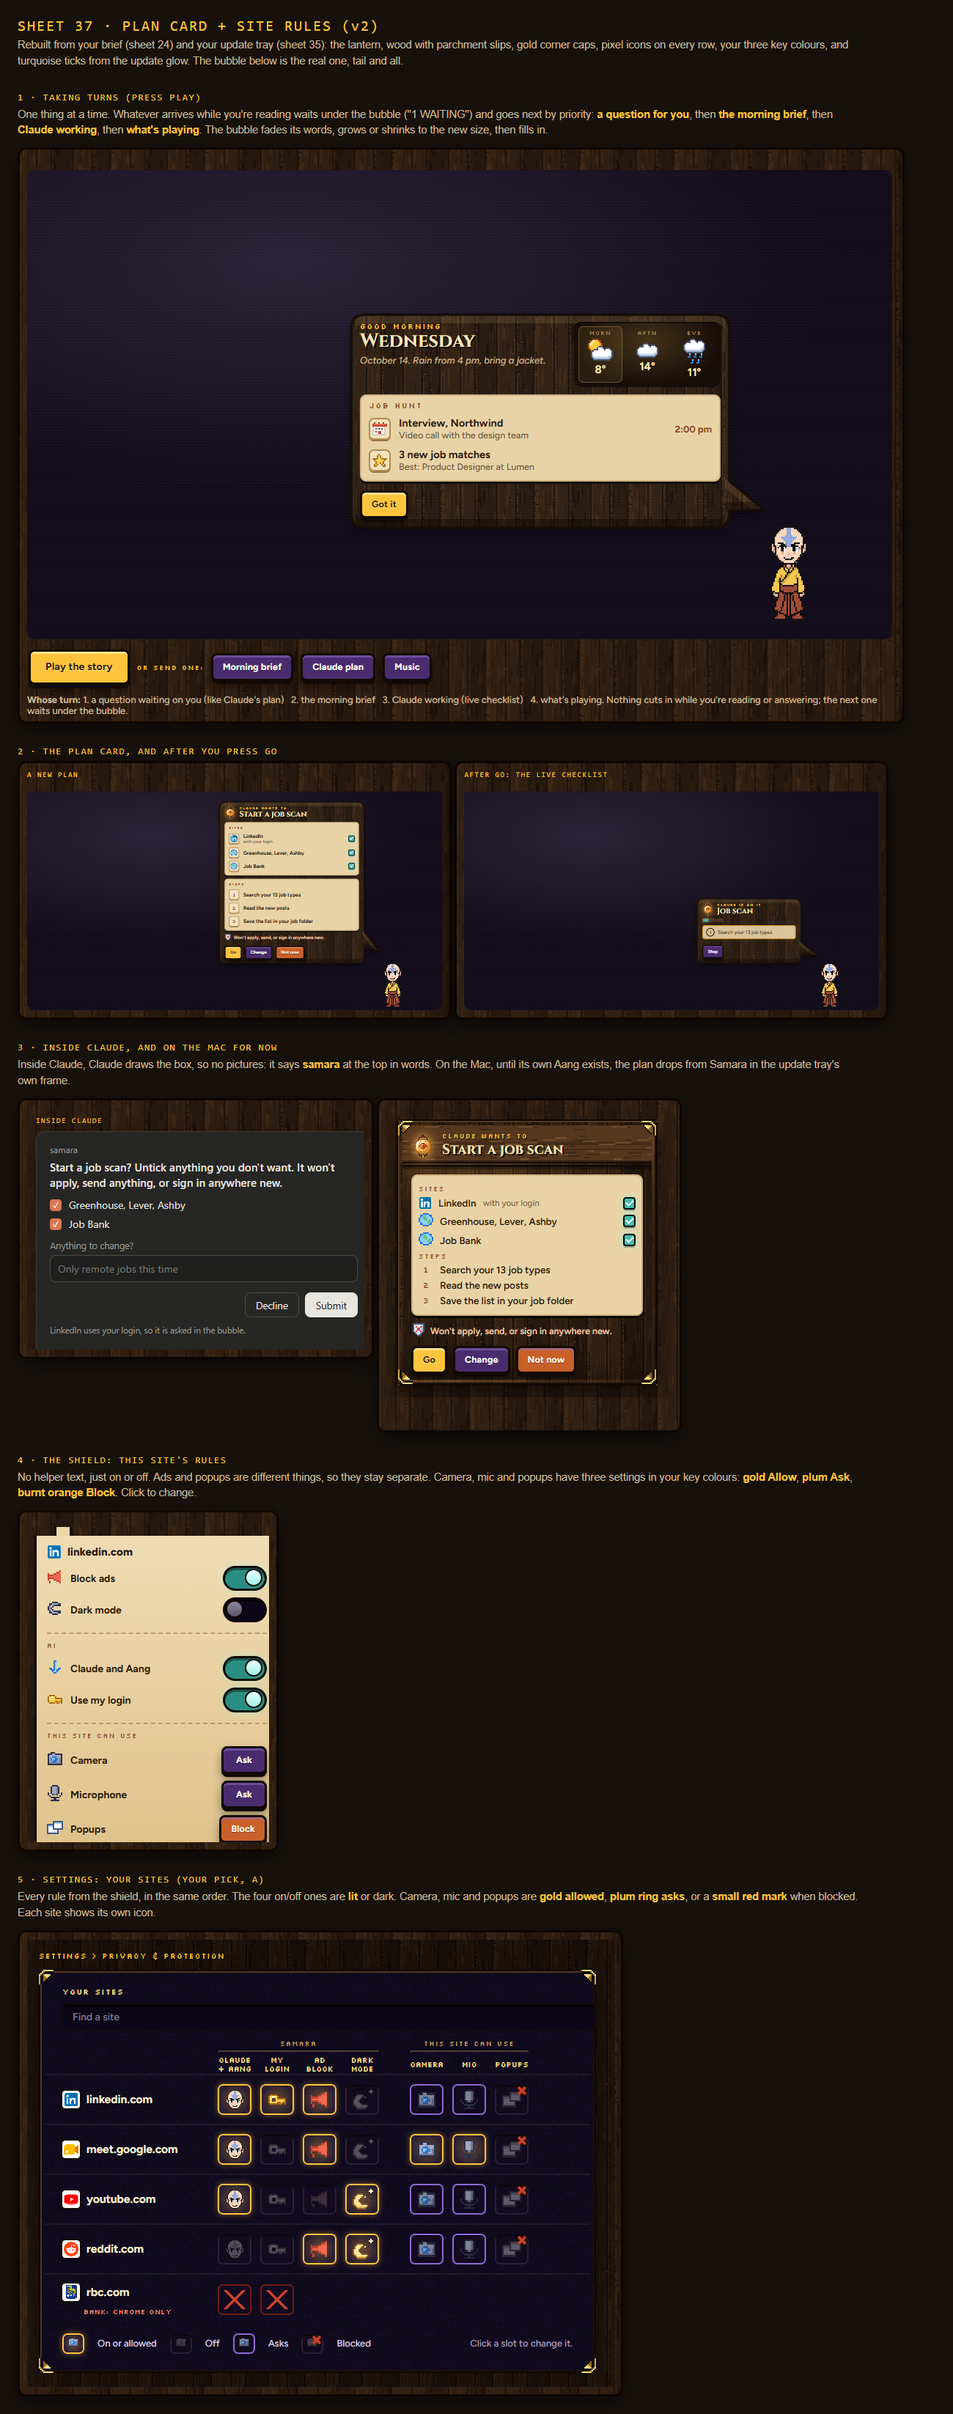
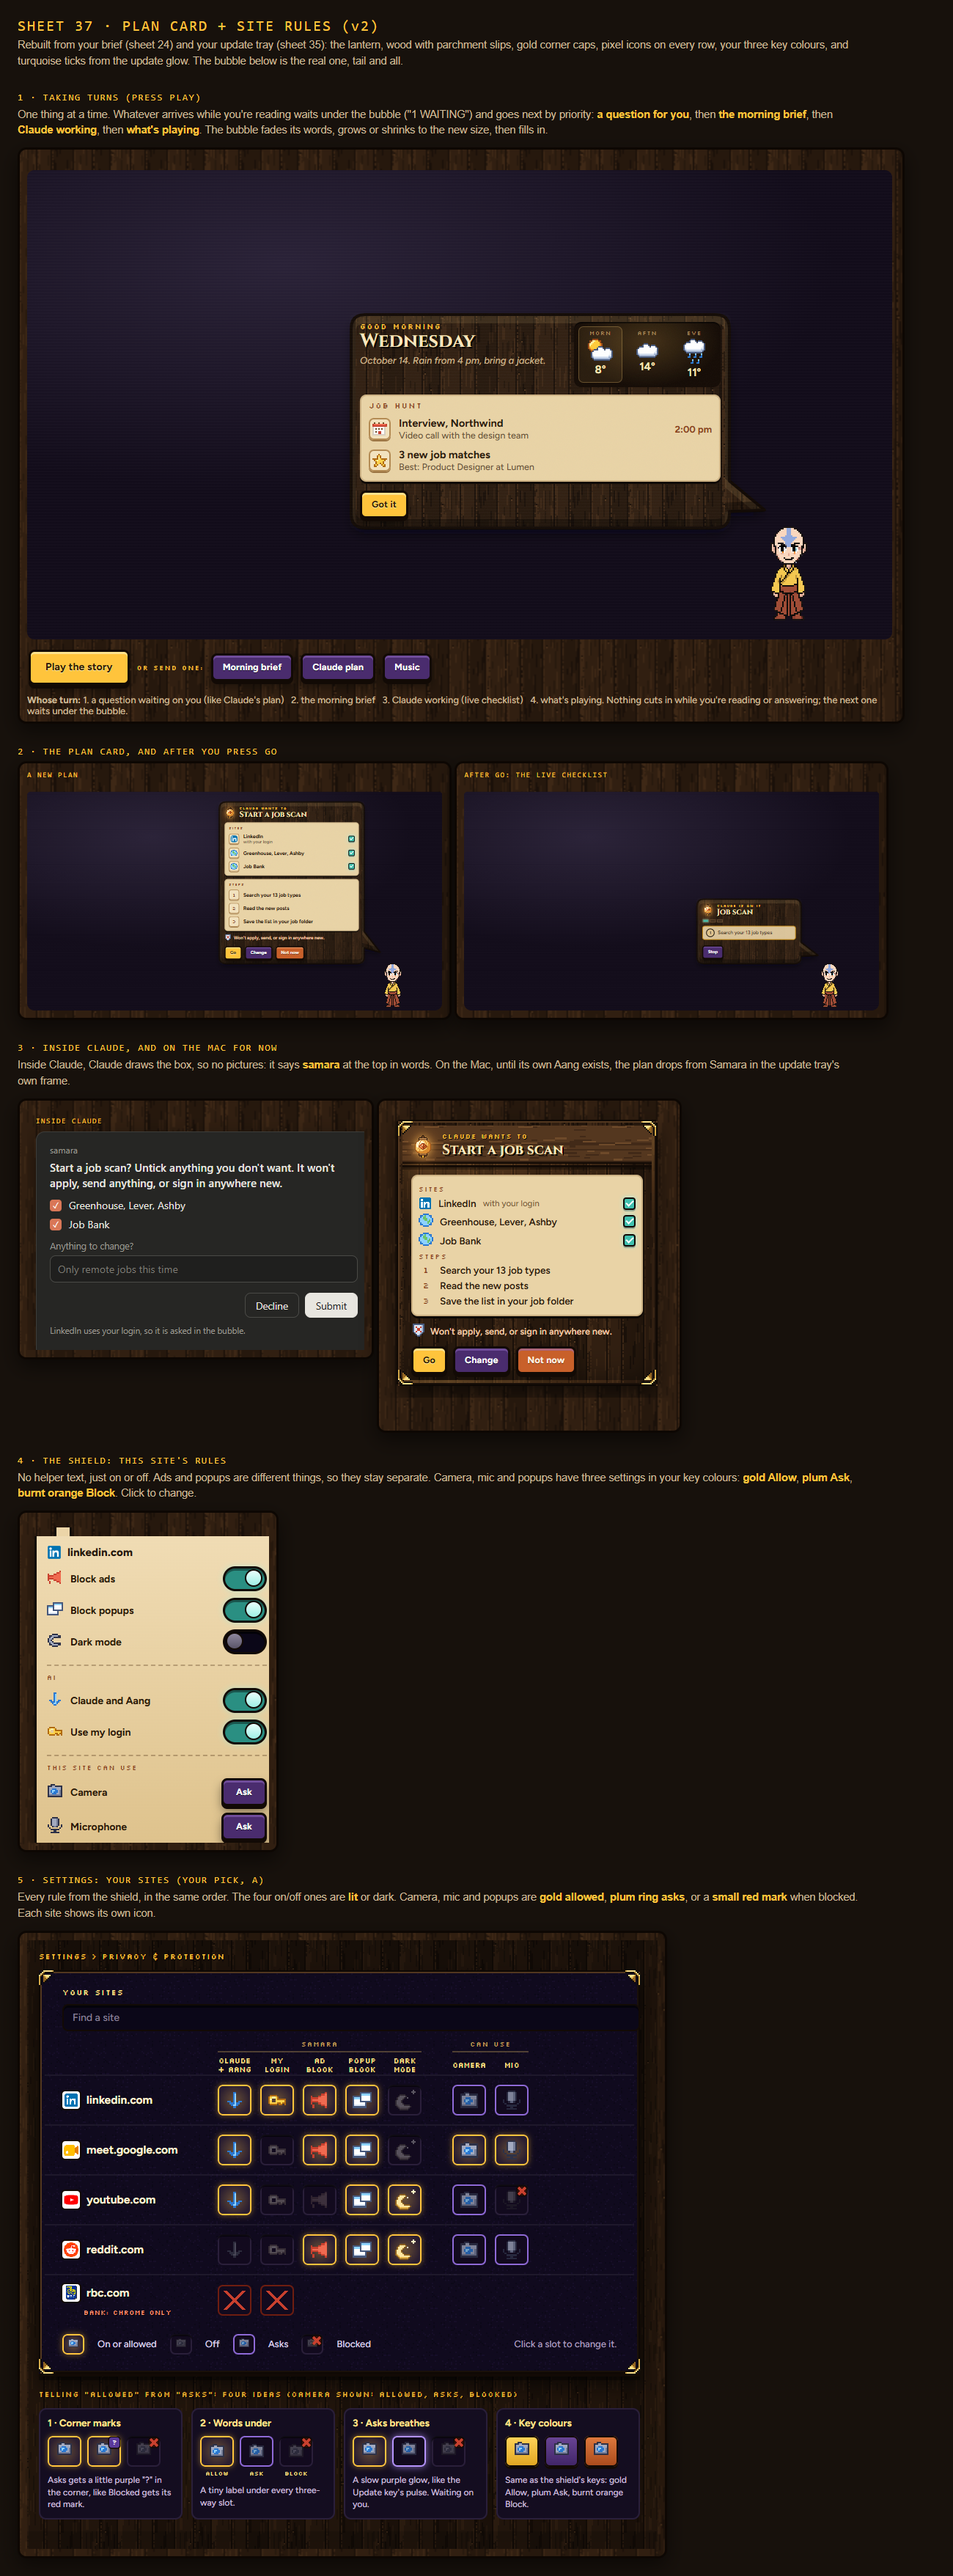
Turquoise tick boxes in the update tray; sheet 37: Aang's arrow, popup blocker on/off, four ideas for allowed vs asks

Changed region(s): [[0.0, 0.1239, 0.9538, 0.9912], [0.0, 0.0, 0.8923, 0.0929]]

diff --git a/docs/cockpit/sheet-37/sites.html b/docs/cockpit/sheet-37/sites.html
@@ -11,14 +11,14 @@
 <link rel="stylesheet" href="../../../src/Shell/pages/settings.css">
 <style>
   html,body{margin:0;overflow:hidden!important;height:auto!important}
-  body{padding:16px 16px 0;width:760px}
+  body{padding:16px 16px 16px;width:820px}
   .cap{font:400 10px Silkscreen,monospace;color:#FFC43C;letter-spacing:1.5px;margin:0 0 12px;text-shadow:1px 1px 0 #000}
   .card{margin:0}
   .find{margin:6px 24px 12px;padding:8px 12px;border-radius:8px;background:#0B0718;border:2.5px solid #120A05;font:500 14px var(--body);color:#8a8099;box-shadow:inset 0 3px 0 rgba(0,0,0,.6)}
-  .grid{--cols:200px 46px 46px 46px 46px 18px 46px 46px 46px;display:grid;grid-template-columns:var(--cols);column-gap:12px;align-items:center}
+  .grid{--cols:200px 46px 46px 46px 46px 46px 18px 46px 46px;display:grid;grid-template-columns:var(--cols);column-gap:12px;align-items:center}
   .groups,.legend,.site{padding-left:24px;padding-right:24px}
   .groups span{font:400 9px var(--label);letter-spacing:1.5px;color:#c9a35a;text-align:center;border-bottom:2px solid rgba(201,163,90,.35);padding-bottom:4px}
-  .groups .ai{grid-column:2 / span 4}.groups .use{grid-column:7 / span 3}
+  .groups .ai{grid-column:2 / span 5}.groups .use{grid-column:8 / span 2}
   .legend{margin-top:6px}
   .legend span{font:400 9.5px var(--label);letter-spacing:.5px;color:#ffe28c;text-align:center;line-height:1.25}
   .site{padding-top:12px;padding-bottom:12px;border-top:2px solid rgba(255,255,255,.06)}
@@ -41,6 +41,21 @@
   .slot.block::before{content:"";position:absolute;right:3px;top:3px;width:12px;height:12px;border-radius:3px;background:#3a0f0a;box-shadow:0 0 0 1.5px #120A05}
   .slot.never{cursor:default;box-shadow:inset 0 0 0 2px #6e1d10}
   .slot.never::after{content:"";position:absolute;inset:8px;background:linear-gradient(45deg,transparent 45%,#C8402E 45% 55%,transparent 55%),linear-gradient(-45deg,transparent 45%,#C8402E 45% 55%,transparent 55%)}
+  .ideas{display:grid;grid-template-columns:repeat(4,1fr);gap:12px}
+  .idea{padding:12px;border-radius:10px;background:#140d20;box-shadow:inset 0 0 0 2px #2a1f3a}
+  .idea b{display:block;font:700 13.5px var(--body);color:#ffe28c;margin:0 0 10px}
+  .idea small{display:block;font:500 12px/1.4 var(--body);color:#c9bfdc;margin-top:10px}
+  .trio{display:flex;gap:8px;align-items:flex-start}
+  .trio .w{display:flex;flex-direction:column;align-items:center;gap:4px}
+  .trio .w i{font:400 8px var(--label);letter-spacing:.5px;color:#ffe28c;font-style:normal}
+  .slot.m-ask::after{content:"?";position:absolute;right:2px;top:2px;width:14px;height:14px;border-radius:3px;background:#5a3a9a;box-shadow:0 0 0 1.5px #120A05;
+    font:400 9px var(--label);color:#fff;display:grid;place-items:center;line-height:14px;text-align:center}
+  .slot.breathe{animation:breathe 2.2s ease-in-out infinite}
+  @keyframes breathe{0%,100%{box-shadow:inset 0 0 0 2px #8f6ad8}50%{box-shadow:inset 0 0 0 2px #b897ff,0 0 12px rgba(184,151,255,.75)}}
+  .slot.k-gold{background:linear-gradient(180deg,#ffd45a,#e0a520);box-shadow:inset 0 0 0 2px #120A05,0 3px 0 #120A05}
+  .slot.k-plum{background:linear-gradient(180deg,#6a4596,#3f2566);box-shadow:inset 0 0 0 2px #120A05,0 3px 0 #120A05}
+  .slot.k-burnt{background:linear-gradient(180deg,#e07a3e,#a84a1c);box-shadow:inset 0 0 0 2px #120A05,0 3px 0 #120A05}
+  .slot[class*="k-"] .pix{opacity:1;filter:none}
   .key4{display:flex;gap:18px;padding:12px 24px 18px;font:500 13px var(--body);color:#d9cfe9;align-items:center;flex-wrap:wrap}
   .key4 .slot{width:30px;height:28px;cursor:default}
   .key4 .slot .pix{transform:scale(.7)}
@@ -52,8 +67,8 @@
   <div class="card"><i class="caps"></i>
     <h3>YOUR SITES</h3>
     <div class="find">Find a site</div>
-    <div class="grid groups"><span style="border:none"></span><span class="ai">SAMARA</span><span style="border:none"></span><span class="use">THIS SITE CAN USE</span></div>
-    <div class="grid legend"><span></span><span>CLAUDE<br>+ AANG</span><span>MY<br>LOGIN</span><span>AD<br>BLOCK</span><span>DARK<br>MODE</span><span></span><span>CAMERA</span><span>MIC</span><span>POPUPS</span></div>
+    <div class="grid groups"><span style="border:none"></span><span class="ai">SAMARA</span><span style="border:none"></span><span class="use">CAN USE</span></div>
+    <div class="grid legend"><span></span><span>CLAUDE<br>+ AANG</span><span>MY<br>LOGIN</span><span>AD<br>BLOCK</span><span>POPUP<br>BLOCK</span><span>DARK<br>MODE</span><span></span><span>CAMERA</span><span>MIC</span></div>
     <div id="rows"></div>
     <div class="key4">
       <span class="slot on"><i data-pix="camera"></i></span>On or allowed
@@ -63,18 +78,25 @@
       <em>Click a slot to change it.</em>
     </div>
   </div>
+  <p class="cap" style="margin-top:22px">TELLING "ALLOWED" FROM "ASKS": FOUR IDEAS (CAMERA SHOWN: ALLOWED, ASKS, BLOCKED)</p>
+  <div class="ideas">
+    <div class="idea"><b>1 &middot; Corner marks</b><div class="trio"><span class="slot on"><i data-pix="camera"></i></span><span class="slot on m-ask"><i data-pix="camera"></i></span><span class="slot block"><i data-pix="camera"></i></span></div><small>Asks gets a little purple "?" in the corner, like Blocked gets its red mark.</small></div>
+    <div class="idea"><b>2 &middot; Words under</b><div class="trio"><span class="w"><span class="slot on"><i data-pix="camera"></i></span><i>ALLOW</i></span><span class="w"><span class="slot ask"><i data-pix="camera"></i></span><i>ASK</i></span><span class="w"><span class="slot block"><i data-pix="camera"></i></span><i>BLOCK</i></span></div><small>A tiny label under every three-way slot.</small></div>
+    <div class="idea"><b>3 &middot; Asks breathes</b><div class="trio"><span class="slot on"><i data-pix="camera"></i></span><span class="slot ask breathe"><i data-pix="camera"></i></span><span class="slot block"><i data-pix="camera"></i></span></div><small>A slow purple glow, like the Update key's pulse. Waiting on you.</small></div>
+    <div class="idea"><b>4 &middot; Key colours</b><div class="trio"><span class="slot k-gold"><i data-pix="camera"></i></span><span class="slot k-plum"><i data-pix="camera"></i></span><span class="slot k-burnt"><i data-pix="camera"></i></span></div><small>Same as the shield's keys: gold Allow, plum Ask, burnt orange Block.</small></div>
+  </div>
 <script type="module">
 import { pix, basePix, paintIcons } from './icons.js';
 // Each site's own icon, the one Samara keeps when he visits (browser-favicons.json), as bookmarks show it.
 const FAV = { 'linkedin.com': 'www.linkedin.com', 'meet.google.com': 'meet.google.com', 'youtube.com': 'www.youtube.com', 'reddit.com': 'www.reddit.com', 'rbc.com': 'www.rbc.com' };
 // Same order and kinds as the shield: four on/off, then three that allow, ask or block.
-const COLS = [['face', 2], ['key', 2], ['ads', 2], ['moon', 2], null, ['camera', 3], ['mic', 3], ['popup', 3]];
+const COLS = [['ai', 2], ['key', 2], ['ads', 2], ['popup', 2], ['moon', 2], null, ['camera', 3], ['mic', 3]];
 const SITES = [
-  ['linkedin.com', ['on', 'on', 'on', 'off', null, 'ask', 'ask', 'block']],
-  ['meet.google.com', ['on', 'off', 'on', 'off', null, 'on', 'on', 'block']],
-  ['youtube.com', ['on', 'off', 'off', 'on', null, 'ask', 'ask', 'block']],
-  ['reddit.com', ['off', 'off', 'on', 'on', null, 'ask', 'ask', 'block']],
-  ['rbc.com', ['never', 'never', '', '', null, '', '', ''], 'BANK: CHROME ONLY'],
+  ['linkedin.com', ['on', 'on', 'on', 'on', 'off', null, 'ask', 'ask']],
+  ['meet.google.com', ['on', 'off', 'on', 'on', 'off', null, 'on', 'on']],
+  ['youtube.com', ['on', 'off', 'off', 'on', 'on', null, 'ask', 'block']],
+  ['reddit.com', ['off', 'off', 'on', 'on', 'on', null, 'ask', 'ask']],
+  ['rbc.com', ['never', 'never', '', '', '', null, '', ''], 'BANK: CHROME ONLY'],
 ];
 const icon = (k) => {
   if (k === 'face') { const i = document.createElement('img'); i.src = '../../../src/Shell/pages/art/aang-face.png'; i.alt = ''; return i; }
@@ -93,7 +115,7 @@ for (const [name, st, note] of SITES) {
     const s = st[i];
     if (!s) { r.append(sl); return; }
     sl.className = 'slot ' + (s === 'off' ? '' : s);
-    sl.title = ['Claude and Aang', 'Use my login', 'Ad blocker', 'Dark mode', '', 'Camera', 'Microphone', 'Popups'][i];
+    sl.title = ['Claude and Aang', 'Use my login', 'Ad blocker', 'Popup blocker', 'Dark mode', '', 'Camera', 'Microphone'][i];
     if (s !== 'never') sl.append(icon(c[0]));
     if (s !== 'never') sl.onclick = () => {
       const order = c[1] === 2 ? ['on', ''] : ['on', 'ask', 'block'];

diff --git a/docs/cockpit/sheet-37/shield.html b/docs/cockpit/sheet-37/shield.html
@@ -26,6 +26,7 @@
   <div class="bandchip site">
     <div class="q"><img src="favicons/www.linkedin.com.ico" width="20" height="20" alt="" style="border-radius:4px">linkedin.com</div>
     <div class="r"><span class="ic"><i data-pix="ads"></i></span><b>Block ads</b><button class="sw" type="button" role="switch" aria-checked="true"><i class="bed"><i class="nub"></i></i></button></div>
+    <div class="r"><span class="ic"><i data-pix="popup"></i></span><b>Block popups</b><button class="sw" type="button" role="switch" aria-checked="true"><i class="bed"><i class="nub"></i></i></button></div>
     <div class="r"><span class="ic"><i data-pix="dark"></i></span><b>Dark mode</b><button class="sw" type="button" role="switch" aria-checked="false"><i class="bed"><i class="nub"></i></i></button></div>
     <div class="sec">AI</div>
     <div class="r"><span class="ic"><i data-pix="ai"></i></span><b>Claude and Aang</b><button class="sw" type="button" role="switch" aria-checked="true"><i class="bed"><i class="nub"></i></i></button></div>
@@ -33,7 +34,6 @@
     <div class="sec">THIS SITE CAN USE</div>
     <div class="r"><span class="ic"><i data-pix="camera"></i></span><b>Camera</b><button class="key sm st" data-cyc type="button">Ask</button></div>
     <div class="r"><span class="ic"><i data-pix="mic"></i></span><b>Microphone</b><button class="key sm st" data-cyc type="button">Ask</button></div>
-    <div class="r"><span class="ic"><i data-pix="popup"></i></span><b>Popups</b><button class="key sm st burnt" data-cyc type="button">Block</button></div>
   </div>
 <script type="module">
 import { paintIcons } from './icons.js';

diff --git a/src/Shell/pages/browser.css b/src/Shell/pages/browser.css
@@ -582,9 +582,9 @@ body.drawer-open .drawer{transform:none;visibility:visible;transition:transform 
 .upx .it{display:flex;gap:9px;align-items:flex-start;margin:4px 0;font:500 13px/1.4 var(--body);color:#2a1c0c}
 .upx .it small{display:block;font-size:11.5px;color:#7a5a36}
 .upx .it.opt{cursor:pointer}
-.upx .bx{flex:none;width:15px;height:15px;margin-top:2px;border:2px solid var(--outline);border-radius:3px;background:#6fbf6a;position:relative;box-sizing:border-box;box-shadow:0 1px 0 rgba(0,0,0,.4)}
+.upx .bx{flex:none;width:15px;height:15px;margin-top:2px;border:2px solid var(--outline);border-radius:3px;background:#3FBFAE;position:relative;box-sizing:border-box;box-shadow:0 0 6px rgba(159,240,230,.9),0 0 12px rgba(159,240,230,.4),0 1px 0 rgba(0,0,0,.4)}
 .upx .bx::after{content:"";position:absolute;left:3px;top:0;width:3px;height:7px;border:solid #fff;border-width:0 2px 2px 0;transform:rotate(45deg)}
-.upx .bx.off{background:#cdb78c}.upx .bx.off::after{display:none}
+.upx .bx.off{background:#cdb78c;box-shadow:0 1px 0 rgba(0,0,0,.4)}.upx .bx.off::after{display:none}
 .upx .dot{flex:none;width:7px;height:7px;margin:7px 4px 0 3px;background:#C95E28;box-shadow:1px 1px 0 var(--outline)}
 .upx .logday{display:block;font:500 11px var(--body);color:#7a5a36;margin:-2px 0 4px}
 .upx .logp{margin:4px 0;font:500 12px/1.4 var(--body);color:#5a4834}

diff --git a/docs/cockpit/sheet-35-update-final.html b/docs/cockpit/sheet-35-update-final.html
@@ -38,9 +38,9 @@
   .grp{font:400 9px Silkscreen,monospace;letter-spacing:1.5px;color:#8a3e1c;margin:6px 0 3px}
   .it{display:flex;gap:9px;align-items:flex-start;margin:4px 0;font:500 13px/1.4 Figtree;color:#2a1c0c}
   .it small{display:block;font-size:11.5px;color:#7a5a36}
-  .bx{flex:none;width:15px;height:15px;margin-top:2px;border:2px solid #120A05;border-radius:3px;background:#6fbf6a;position:relative;box-sizing:border-box;box-shadow:0 1px 0 rgba(0,0,0,.4)}
+  .bx{flex:none;width:15px;height:15px;margin-top:2px;border:2px solid #120A05;border-radius:3px;background:#3FBFAE;position:relative;box-sizing:border-box;box-shadow:0 0 6px rgba(159,240,230,.9),0 0 12px rgba(159,240,230,.4),0 1px 0 rgba(0,0,0,.4)}
   .bx::after{content:"";position:absolute;left:3px;top:0;width:3px;height:7px;border:solid #fff;border-width:0 2px 2px 0;transform:rotate(45deg)}
-  .bx.off{background:#cdb78c}.bx.off::after{display:none}
+  .bx.off{background:#cdb78c;box-shadow:0 1px 0 rgba(0,0,0,.4)}.bx.off::after{display:none}
   .dot{flex:none;width:7px;height:7px;margin:7px 4px 0 3px;background:#C95E28;box-shadow:1px 1px 0 #120A05}
   .ask{position:relative;width:340px;padding:0 0 10px}
   .ask .msg{margin:0 14px 10px;font:500 13.5px/1.5 Figtree;color:#EADFC9}

diff --git a/docs/cockpit/sheet-37-plan-and-rules.html b/docs/cockpit/sheet-37-plan-and-rules.html
@@ -45,6 +45,6 @@
 
 <h2>5 &middot; SETTINGS: YOUR SITES (YOUR PICK, A)</h2>
 <p>Every rule from the shield, in the same order. The four on/off ones are <b>lit</b> or dark. Camera, mic and popups are <b>gold allowed</b>, <b>plum ring asks</b>, or a <b>small red mark</b> when blocked. Each site shows its own icon.</p>
-<div class="stage"><iframe src="sheet-37/sites.html" width="800" height="610" title="sites"></iframe></div>
+<div class="stage"><iframe src="sheet-37/sites.html" width="860" height="830" title="sites"></iframe></div>
 </body>
 </html>
